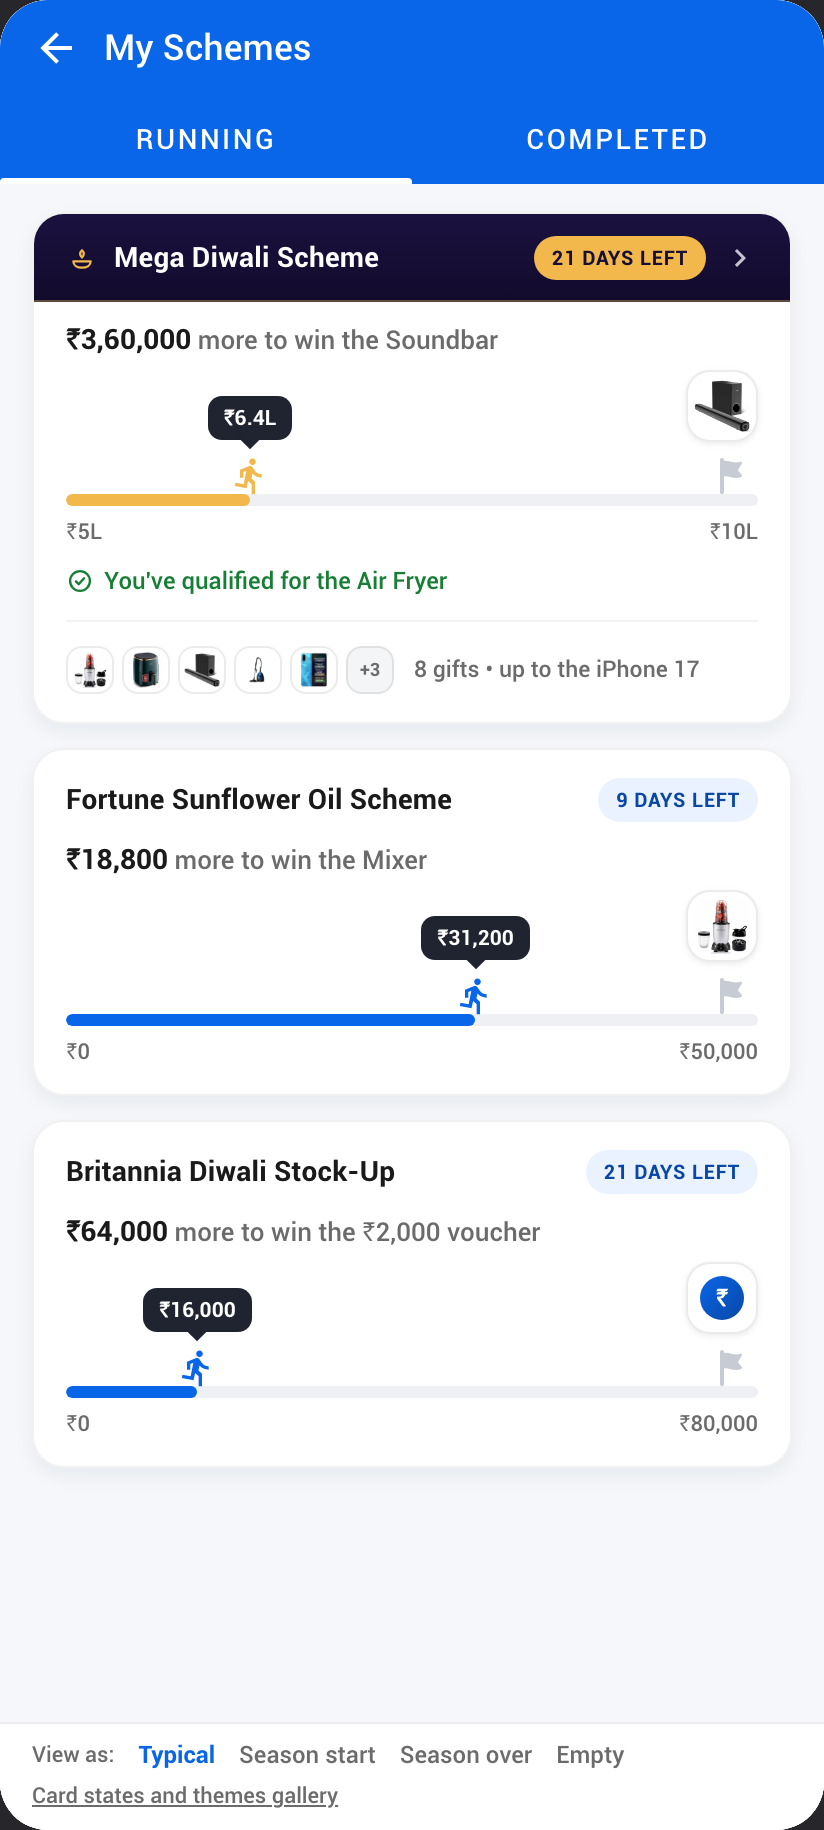
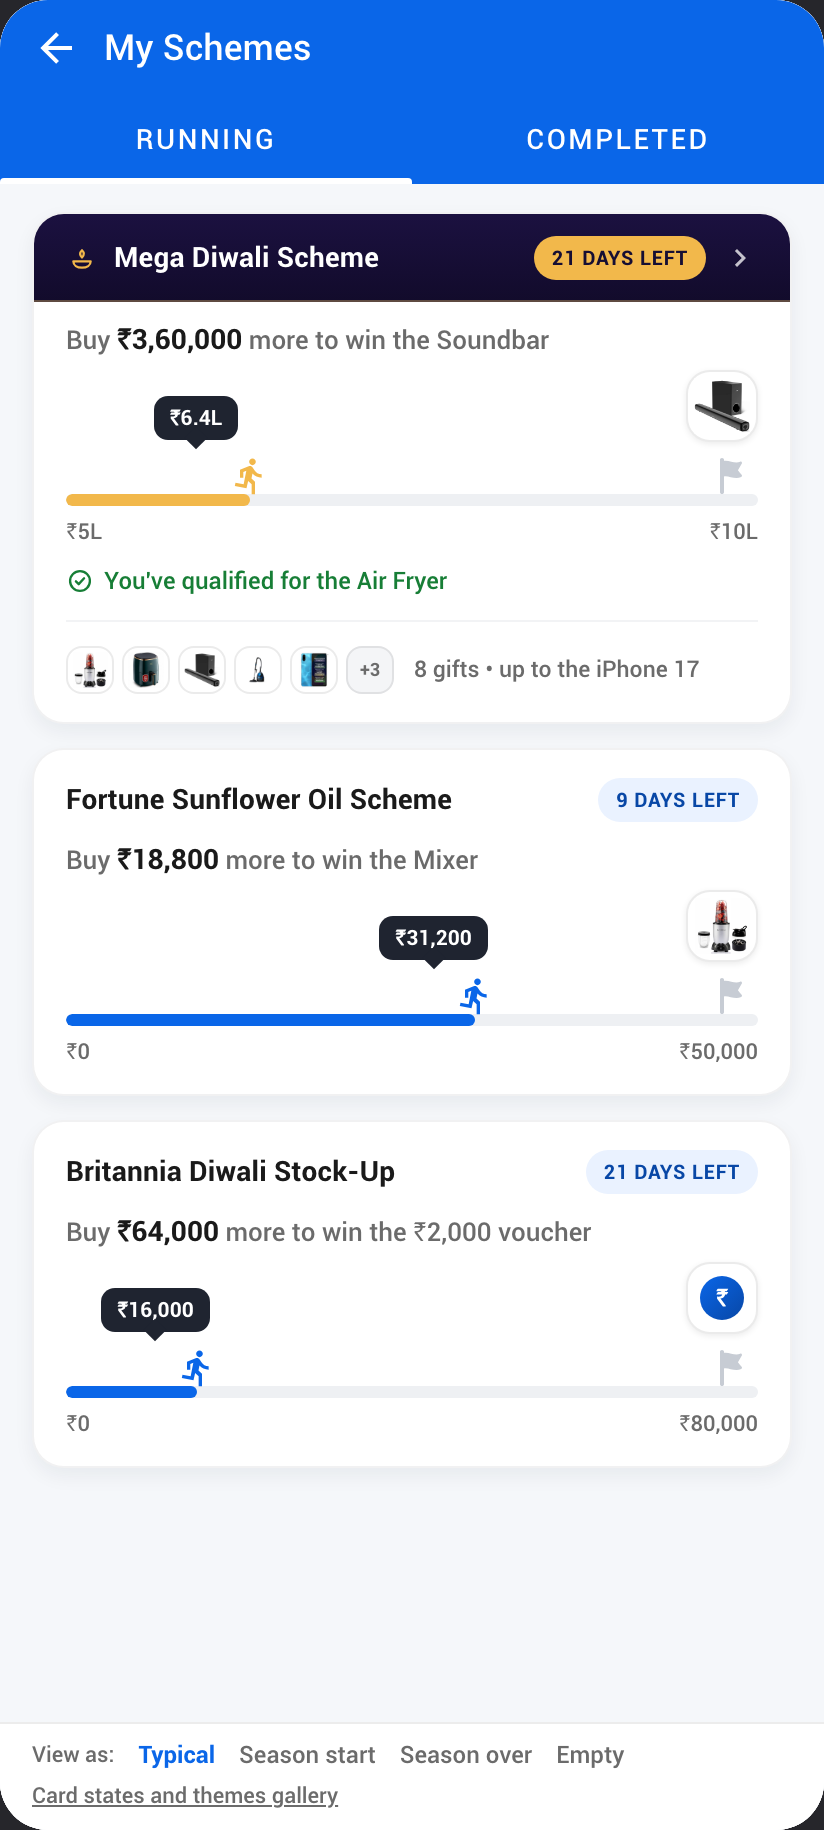
Buy-verb ask copy; tightened stage rhythm
- The ask starts with the verb: 'Buy ₹3,60,000 more' and 'Buy just
  ₹80,000 more' near a slab; the card sentence matches ('Buy X more to
  win the Y'). Hindi: '₹X और ख़रीदें' / 'बस ₹X और ख़रीदें'.
- Spacing measured and evened: slab labels to the ask 24 -> 12, payoff to
  the qualified capsule 26 -> 20; the section starts hold the 18-19 beat.
- The removed eyebrow's dead 90ms slot is gone from the entrance stagger.

diff --git a/app/mega-diwali/index.js b/app/mega-diwali/index.js
@@ -116,8 +116,8 @@ const T = {
     topGift: 'TOP GIFT',
     wonTop: 'YOU WON THE TOP GIFT',
     securedRow: (name) => `You've qualified for the ${name}`,
-    morePrefix: '', moreSuffix: ' more',
-    onlyPrefix: 'Only ', onlySuffix: ' left',
+    morePrefix: 'Buy ', moreSuffix: ' more',
+    onlyPrefix: 'Buy just ', onlySuffix: ' more',
     rest: (next) => `to win the ${next}`,
     finalBought: (amt) => `Final buying: ${amt}`,
     cta: () => 'View Eligible Products',
@@ -153,8 +153,8 @@ const T = {
     topGift: 'टॉप गिफ़्ट',
     wonTop: 'आपने टॉप गिफ़्ट जीता',
     securedRow: (name) => `आपने ${name} के लिए क्वालिफ़ाई किया`,
-    morePrefix: '', moreSuffix: ' और चाहिए',
-    onlyPrefix: 'सिर्फ़ ', onlySuffix: ' और',
+    morePrefix: '', moreSuffix: ' और ख़रीदें',
+    onlyPrefix: 'बस ', onlySuffix: ' और ख़रीदें',
     rest: (next) => `और ${next} जीतें`,
     finalBought: (amt) => `कुल ख़रीदारी: ${amt}`,
     cta: () => 'एलिजिबल प्रोडक्ट देखें',
@@ -289,8 +289,8 @@ export default function SchemeDetail() {
 
   // Staged entrance: label, tile, name, bar sweep, amount, CTA. 90ms apart,
   // re-run when the scenario or the theme changes.
-  const intro = useRef([...Array(7)].map(() => new Animated.Value(STATIC ? 1 : 0))).current;
-  const [labelA, tileA, nameA, boughtA, barA, amountA, ctaA] = intro;
+  const intro = useRef([...Array(6)].map(() => new Animated.Value(STATIC ? 1 : 0))).current;
+  const [labelA, tileA, nameA, barA, amountA, ctaA] = intro;
   useEffect(() => {
     if (STATIC) return;
     intro.forEach((v) => v.setValue(0));
@@ -298,7 +298,6 @@ export default function SchemeDetail() {
       Animated.timing(labelA, { toValue: 1, duration: 260, easing: Easing.out(Easing.cubic), useNativeDriver: false }),
       Animated.spring(tileA, { toValue: 1, friction: 7, tension: 60, useNativeDriver: false }),
       Animated.timing(nameA, { toValue: 1, duration: 300, easing: Easing.out(Easing.cubic), useNativeDriver: false }),
-      Animated.timing(boughtA, { toValue: 1, duration: 300, easing: Easing.out(Easing.cubic), useNativeDriver: false }),
       Animated.timing(barA, { toValue: 1, duration: 700, easing: Easing.out(Easing.cubic), useNativeDriver: false }),
       Animated.timing(amountA, { toValue: 1, duration: 320, easing: Easing.out(Easing.cubic), useNativeDriver: false }),
       Animated.timing(ctaA, { toValue: 1, duration: 320, easing: Easing.out(Easing.cubic), useNativeDriver: false }),
@@ -830,7 +829,7 @@ const styles = StyleSheet.create({
   dTagText: { color: N.ink, fontFamily: F.bold, fontSize: 13, lineHeight: 16 },
   dTagCaret: { width: 9, height: 9, marginTop: -6, backgroundColor: '#fff', transform: [{ rotate: '45deg' }] },
 
-  securedWrap: { alignItems: 'center', marginTop: 14 },
+  securedWrap: { alignItems: 'center', marginTop: 8 },
 
   barZone: { marginTop: 0, marginHorizontal: 32, height: 34, justifyContent: 'flex-end' },
   barTrack: { height: 10, borderRadius: 5, overflow: 'hidden' },
@@ -840,7 +839,7 @@ const styles = StyleSheet.create({
   barEnds: { marginTop: 6, marginHorizontal: 32, flexDirection: 'row', justifyContent: 'space-between' },
   barEnd: { fontFamily: F.medium, fontSize: 11, lineHeight: 15 },
 
-  bigMore: { marginTop: 24, textAlign: 'center', fontFamily: F.bold, fontSize: 30, lineHeight: 36 },
+  bigMore: { marginTop: 12, textAlign: 'center', fontFamily: F.bold, fontSize: 30, lineHeight: 36 },
   bigMoreWord: { fontFamily: F.medium, fontSize: 17, lineHeight: 36 },
   bigRest: { marginTop: 2, textAlign: 'center', fontFamily: F.medium, fontSize: 14, lineHeight: 19, paddingHorizontal: 24 },
 

diff --git a/src/gifts/solv.js b/src/gifts/solv.js
@@ -512,9 +512,9 @@ export function solvSchemeCard(s, { title, theme = 'default', fmt, money }) {
   // whole ladder of a single-slab scheme.
   const tail = `to win the ${s.next.shortName}`;
   const sentence = s.nearSlab
-    ? { pre: 'Only ', val: money(s.remaining), post: ' left', tail, tone: 'urgent' }
+    ? { pre: 'Buy just ', val: money(s.remaining), post: ' more', tail, tone: 'urgent' }
     : s.currentValue > 0
-    ? { val: money(s.remaining), post: ' more', tail }
+    ? { pre: 'Buy ', val: money(s.remaining), post: ' more', tail }
     : { pre: 'Buy for ', val: money(s.next.at), tail };
 
   return {
